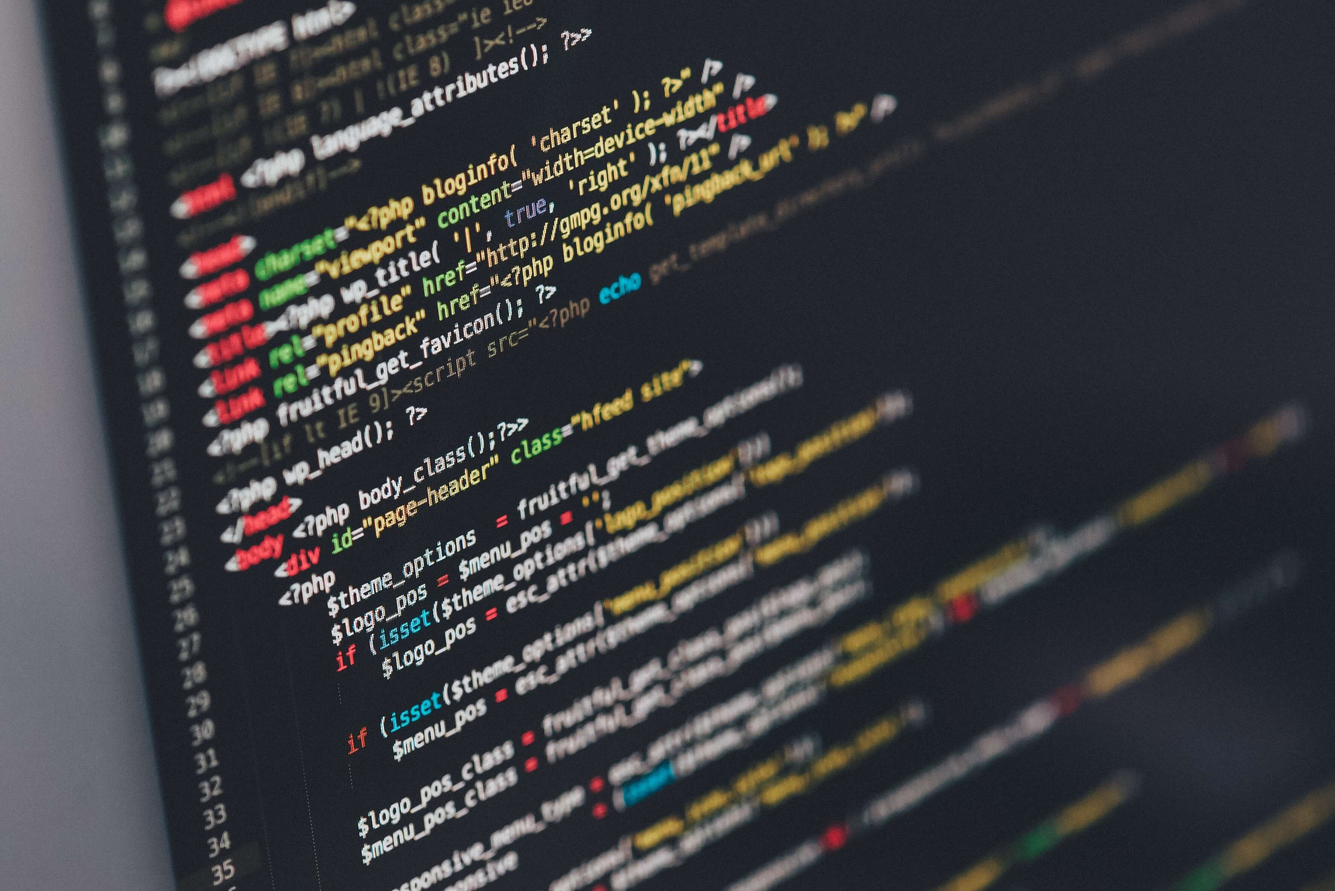
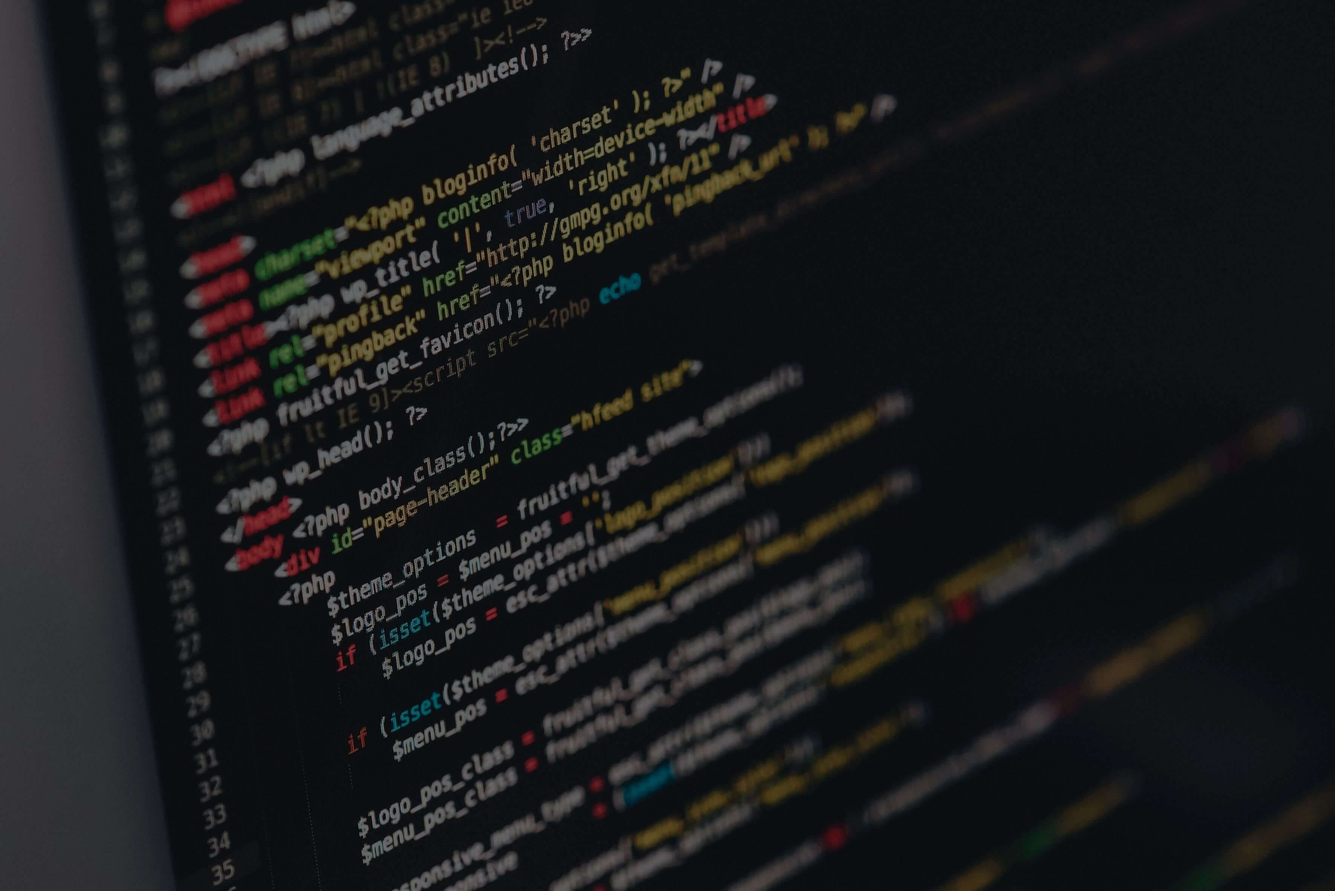
Removed parallax on home page and made splash image on blog darker for better text readability

diff --git a/js/home.js b/js/home.js
@@ -38,6 +38,7 @@ var init = function init() {
     // controls
   
     var controls = new THREE.OrbitControls(camera, renderer.domElement);
+    controls.enableZoom = false;
     controls.autoRotate = true;
   
     window.addEventListener('resize', onWindowResize, false);
@@ -79,15 +80,6 @@ var init = function init() {
     particlesJS.load('particles-js', 'js/particlesjs-config.json', function () {
       console.log('callback - particles.js config loaded');
     });
-  
-    //Setup Rellax
-  var rellax = new Rellax('.rellax', {
-    speed: -2,
-    center: false,
-    round: true,
-    vertical: true,
-    horizontal: false
-  });
   
     //Setup WebGL
     setTimeout(init, 0);
